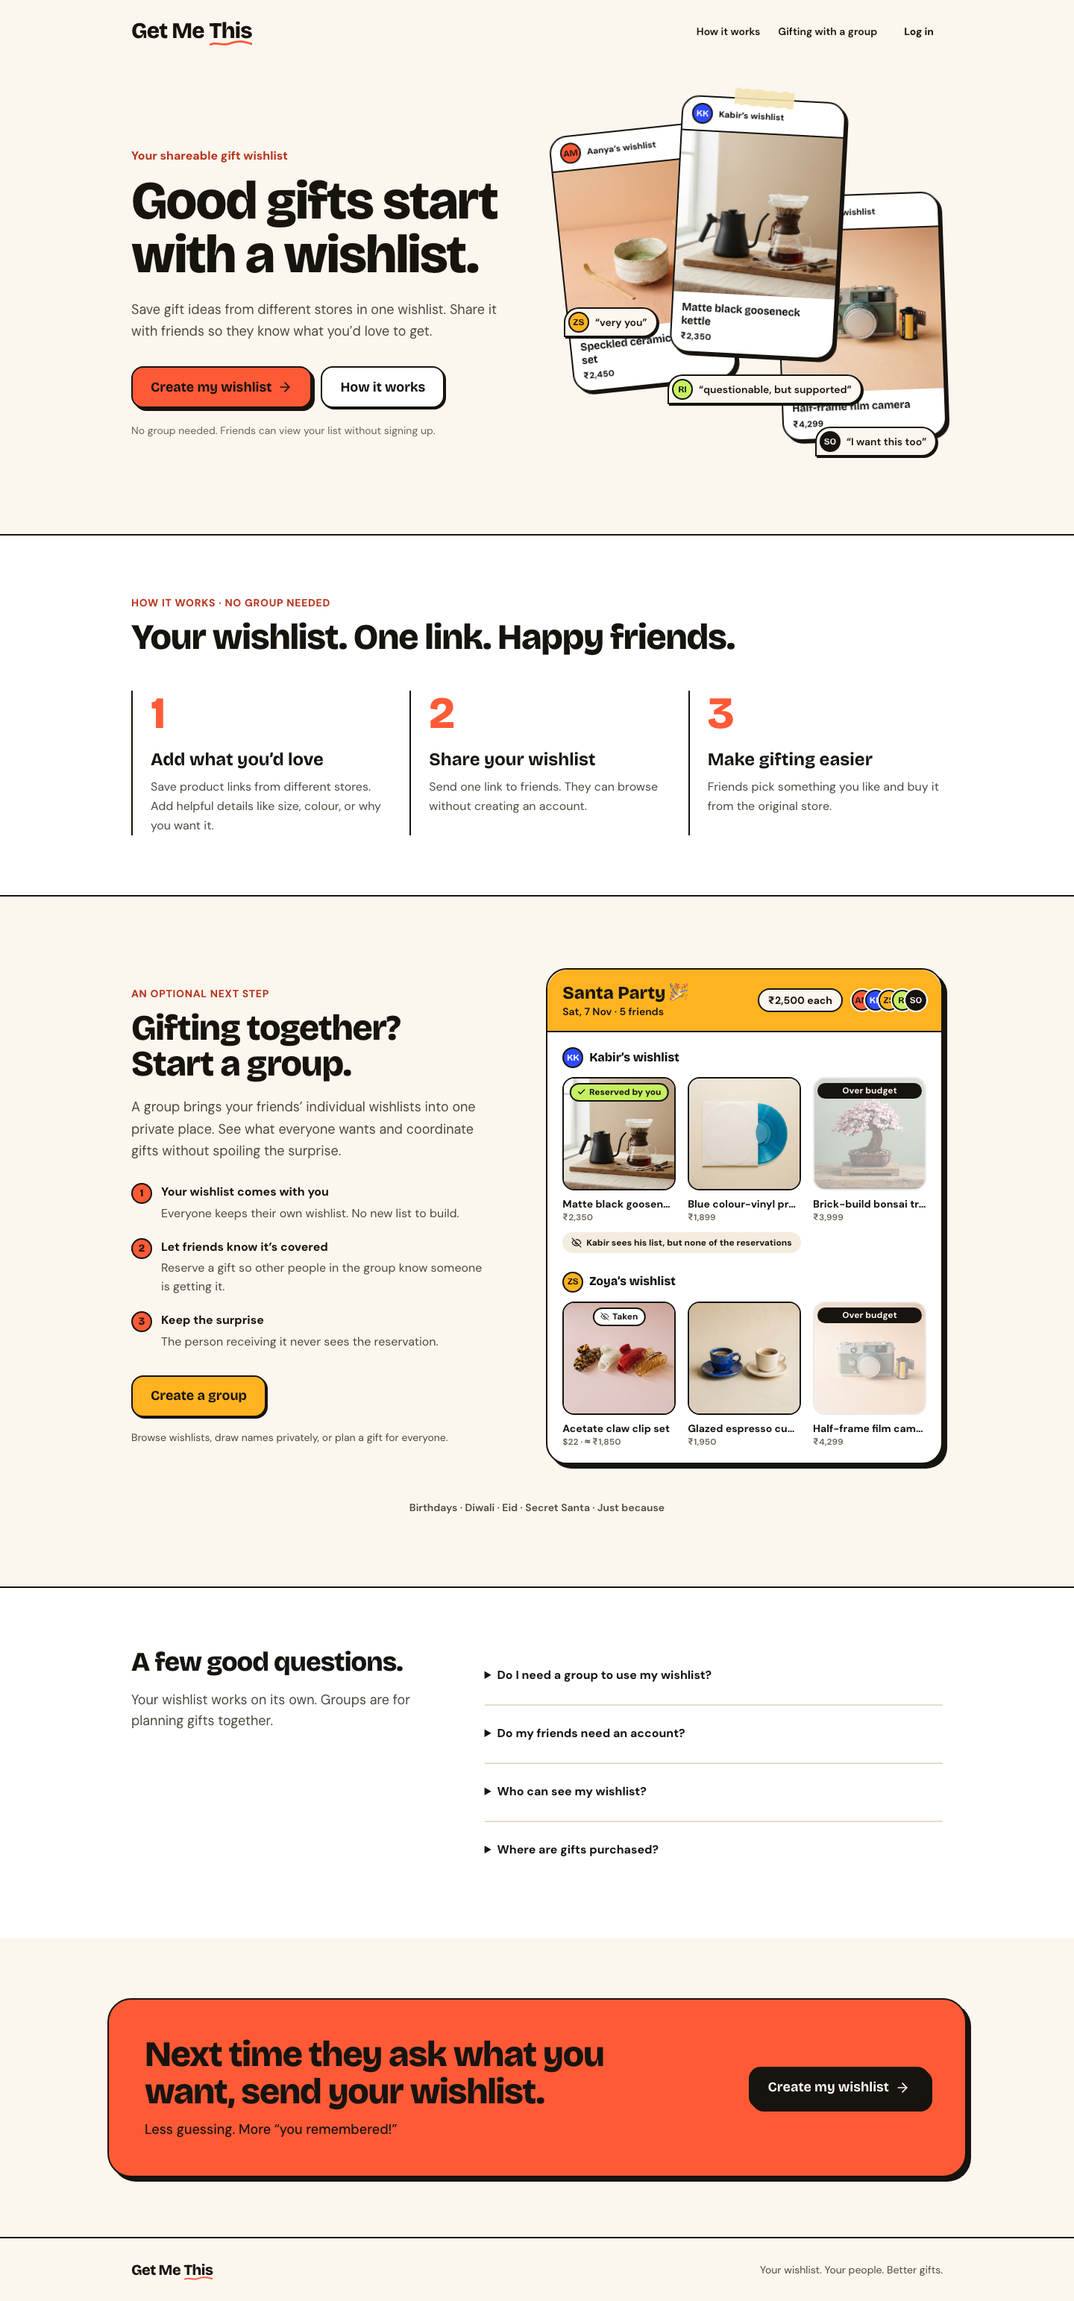
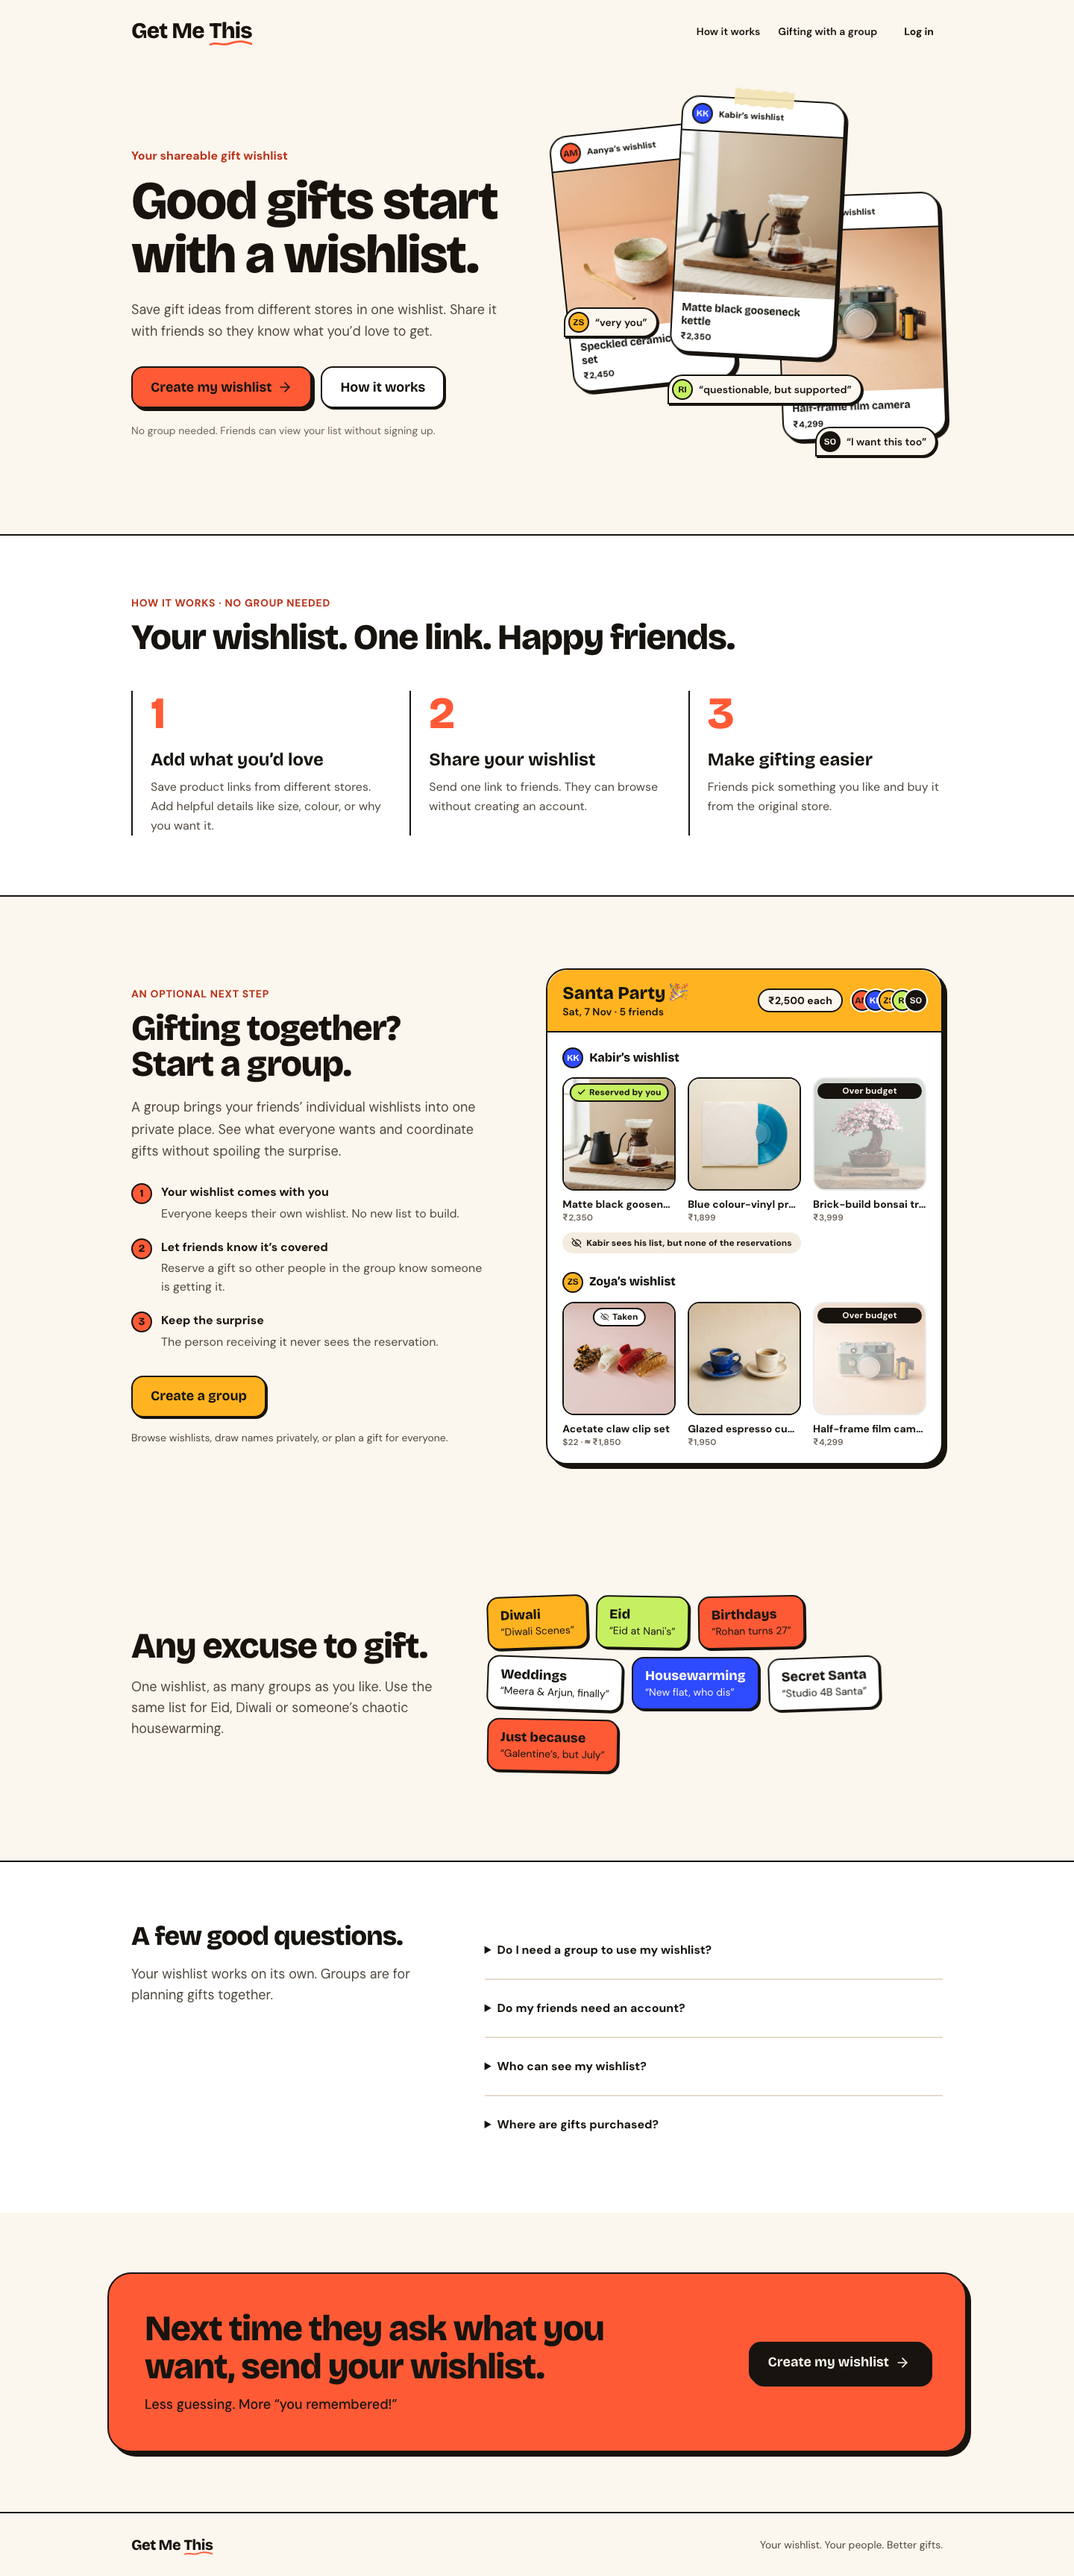
Refresh final integrated landing review evidence

diff --git a/docs/delivery/evidence/landing-positioning-2026-10-04/README.md b/docs/delivery/evidence/landing-positioning-2026-10-04/README.md
@@ -28,17 +28,23 @@ Route `/`, anonymous session, fixed demo content, no overlays, desktop **1440×1
 - [Final hero — mobile](hero-mobile.png)
 - [Restored group illustration — desktop](group-desktop.png)
 - [Restored group illustration — mobile](group-mobile.png)
+- [Restored occasions — desktop](occasions-desktop.png)
+- [Restored occasions — mobile](occasions-mobile.png)
 
 `collage-before-*` records the immediately preceding compact interactive design. `refinement-before-*`, `example-review-desktop.png` and `friend-view-*` preserve earlier review evidence only; those interactions are no longer shipped.
 
 These are review evidence, **not approved replacement golden screenshots**. No baseline files or manifest were changed. The landing still differs from the old group-first goldens, so a separate explicit baseline approval is required after human review.
 
-## Verification
+## Final integrated verification
 
-- Initial implementation: `pnpm verify` passed formatting, lint (two existing unrelated warnings), type-check, **154 test files /1,503 unit tests**, and production build. Local test helpers required loopback-port permission. A real local dependency copy was required by Next.js; dependency versions are unchanged.
-- Final restored-illustration revision: focused landing unit tests **11 passed**, production build passed. Browser coverage verifies CTA click-through, keyboard navigation, FAQ disclosure, original collage reduced-motion behavior, no hero reservation status, correct group reservation illustration and public-route WCAG A/AA accessibility at both widths. Final browser results: **25 passed, 1 intentional mobile-navigation skip**.
-- Final landing visual comparison reported two expected failures against the old group-first goldens. The tests remain active; no golden files were rewritten, skipped or loosened.
-- This public-only change does not mutate data. Database authorization/race suites were not rerun. Email entry and honest provider-failure recovery are checked in the unconfigured-provider build.
+Final screenshots use source commit **647c63b**, which includes the approved landing changes, integrated CI fixes and brand/favicon/social assets. The coordinating agent built and served this branch on3300 with the actual local Supabase configuration. The server was not stopped or rebuilt during evidence collection.
+
+- Combined `pnpm verify` passed formatting, lint, type-check, **154 test files /1,512 unit tests**, and production build (run by the coordinating agent).
+- Focused final landing/browser accessibility run: **23 passed, 1 intentional mobile-navigation skip**. The two viewport variants of the test requiring an unconfigured auth provider were explicitly excluded with `--grep-invert`, because this integrated server has Supabase configured. That failure-recovery scenario passed earlier on the isolated unconfigured build; no production behavior or test files were altered to accommodate this run.
+- Independent rendered-page checks at both sizes confirmed markers **1,2,3**, three original hero product images, no hero reservation sticker, original **Santa Party 🎉** group illustration, seven occasion tiles, occasions before FAQ, and absence of the condensed occasion line. No horizontal overflow:1440/1440 desktop and390/390 mobile.
+- Anonymous page metadata renders `/assets/brand/share-banner-v2.png` for both Open Graph and Twitter images. Favicon, PNG icon and Apple icon links are present. Asset correctness was checked separately in the integrated brand work.
+- Existing golden files are untouched. The last comparison before restoring the occasion section reported two expected landing differences from the old group-first design. New final screenshots require explicit review and baseline approval; they were not adopted automatically.
+- This public-only revision does not mutate data. Database suites were handled separately by the CI-fix work.
 
 ## Boundaries and rollback
 
@@ -48,4 +54,4 @@ No migration is required. Reverting the landing commits restores the previous pa
 
 ## Occasion-section restoration
 
-The final follow-up restores the original V18 occasion section immediately before the FAQ, as explicitly requested. It reuses the original seven fixed tiles, semantic colors, rotation rhythm, layout and copy. The condensed occasion line is removed. Focused formatting and landing unit checks run on this commit; the coordinating agent will rebuild the combined branch and refresh final screenshots afterward. No server was started or stopped by this follow-up.
+The final follow-up restores the original V18 occasion section immediately before the FAQ, as explicitly requested. It reuses the original seven fixed tiles, semantic colors, rotation rhythm, layout and copy. The condensed occasion line is removed. Focused formatting and11landing unit checks passed on this change. The coordinating agent subsequently verified and built the integrated branch; final screenshots now show this restored section. No server was started or stopped during the screenshot follow-up.
